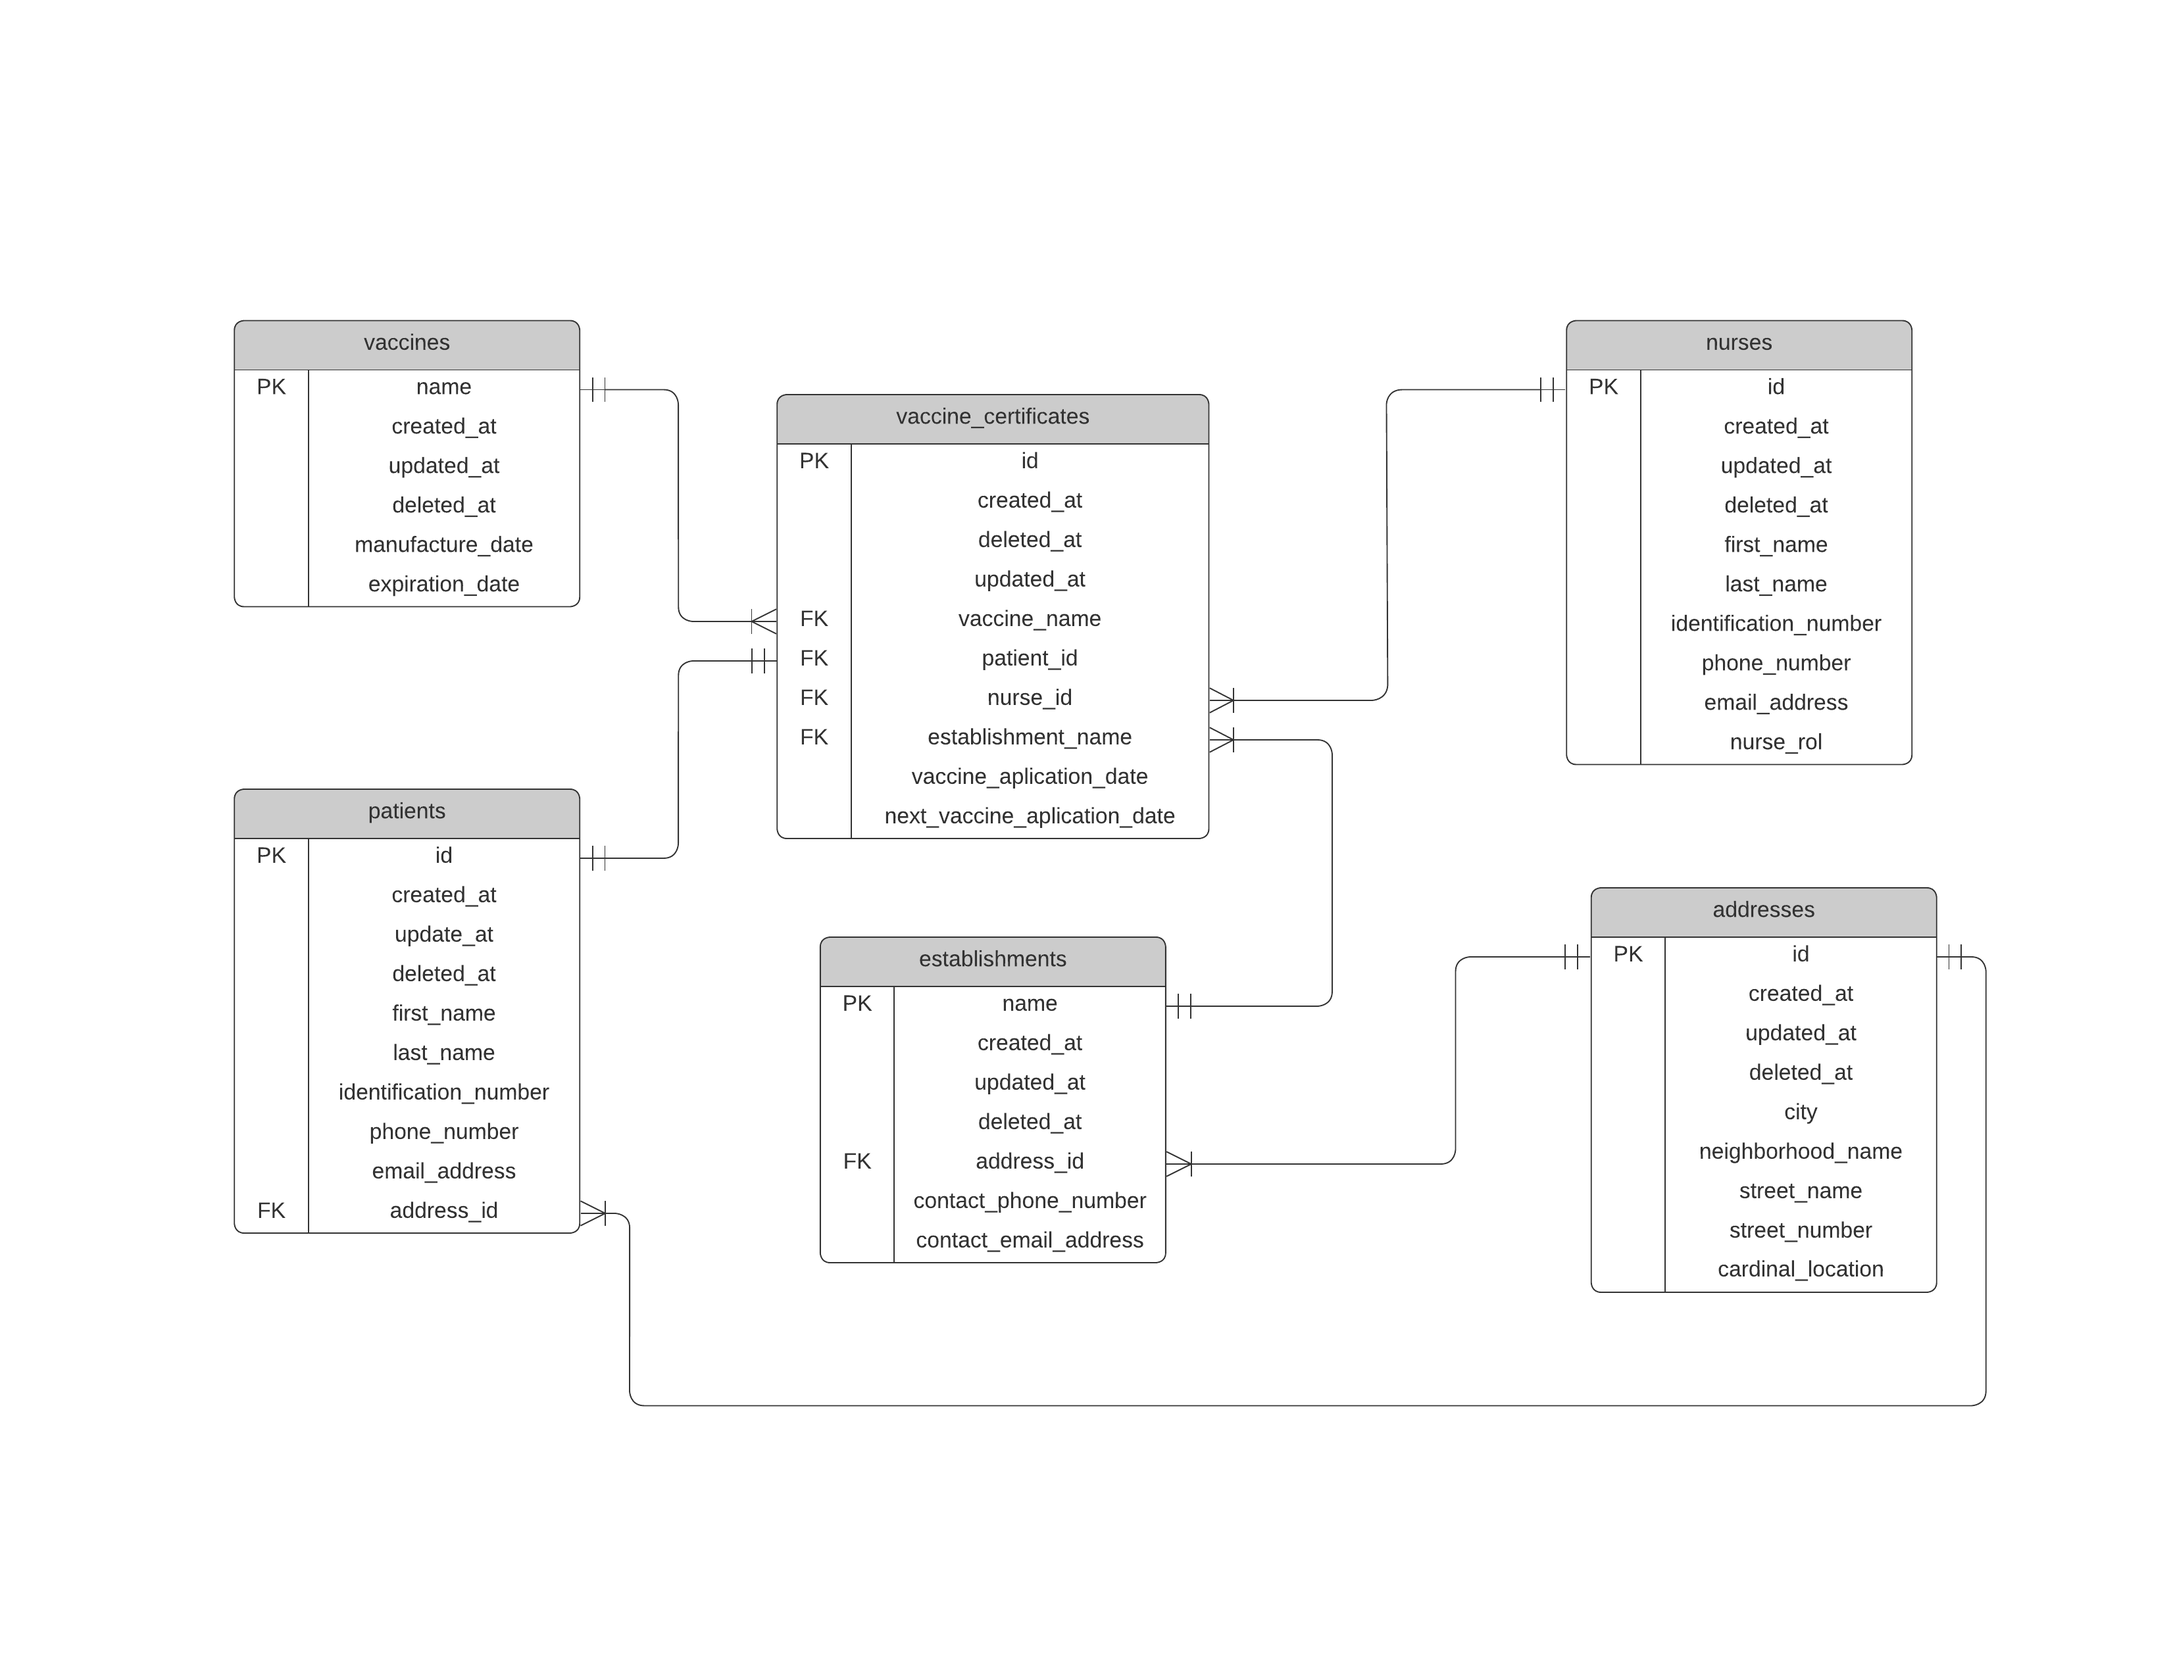
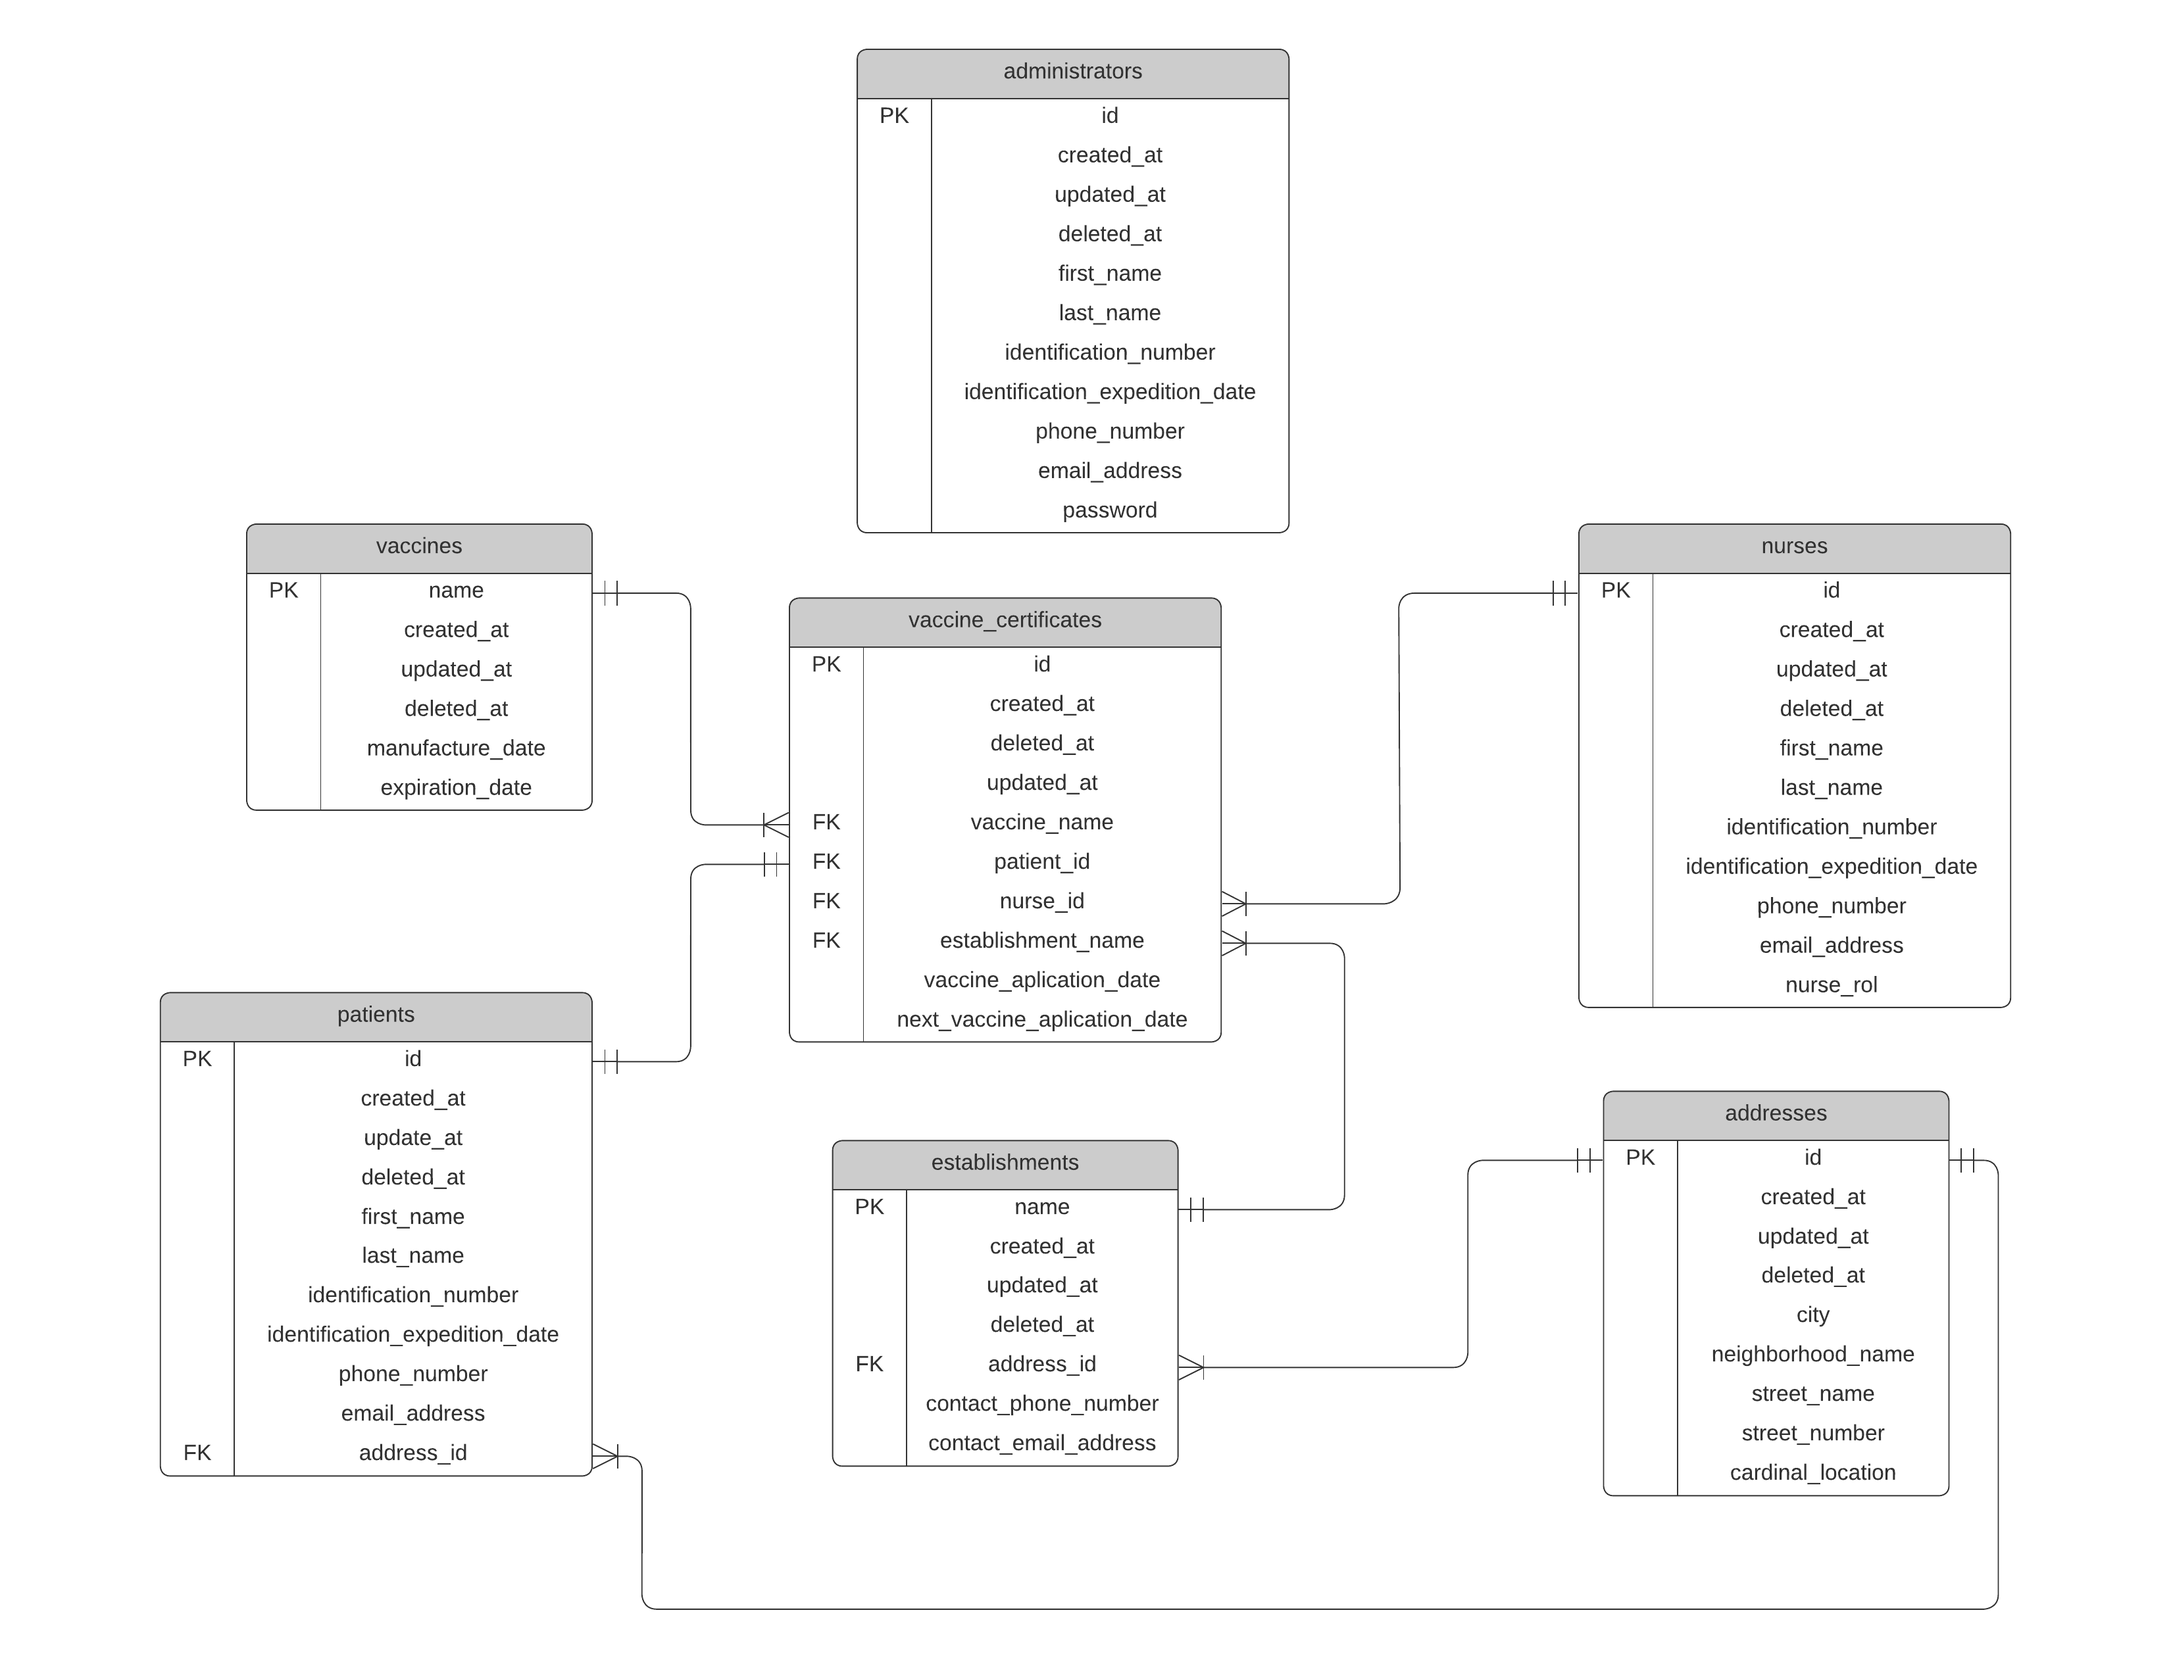
database: associations applied to models

diff --git a/model/address.go b/model/address.go
@@ -4,9 +4,11 @@ import "gorm.io/gorm"
 
 type Address struct {
 	gorm.Model
-	City             string `json:"city"`
-	NeighborhoodName string `json:"neighborhood_name"`
-	StreetName       string `json:"street_name"`
-	StreetNumber     uint32 `json:"street_number"`
-	CardinalLocation string `json:"cardinal_location"`
+	City             string          `json:"city"`
+	NeighborhoodName string          `json:"neighborhood_name"`
+	StreetName       string          `json:"street_name"`
+	StreetNumber     uint32          `json:"street_number"`
+	CardinalLocation string          `json:"cardinal_location"`
+	Patients         []Patient       `gorm:"constraint:OnUpdate:CASCADE,OnDelete:SET NULL;" json:"patients"`
+	Establishments   []Establishment `gorm:"constraint:OnUpdate:CASCADE,OnDelete:SET NULL;" json:"establishments"`
 }

diff --git a/model/vaccine_certificate.go b/model/vaccine_certificate.go
@@ -8,9 +8,10 @@ import (
 
 type VaccineCertificate struct {
 	gorm.Model
-	VaccineName               Vaccine       `json:"vaccine_name"`
-	NurseId                   Nurse         `json:"nurse_id"`
-	EstablishmentName         Establishment `json:"establishment_name"`
-	VaccineAplicationDate     time.Time     `json:"vaccine_aplication_date"`
-	NextVaccineAplicationDate time.Time     `json:"next_vaccine_aplication_date"`
+	VaccineID                 uint      `json:"vaccine_id"`
+	PatientID                 uint      `json:"patient_id"`
+	NurseID                   uint      `json:"nurse_id"`
+	EstablishmentName         string    `json:"establishment_name"`
+	VaccineAplicationDate     time.Time `json:"vaccine_aplication_date"`
+	NextVaccineAplicationDate time.Time `json:"next_vaccine_aplication_date"`
 }

diff --git a/model/person.go b/model/person.go
@@ -1,14 +1,17 @@
 package model
 
 import (
+	"time"
+
 	"gorm.io/gorm"
 )
 
 type Person struct {
 	gorm.Model
-	FirstName      string `json:"first_name"`
-	LastName       string `json:"last_name"`
-	Identification uint32 `json:"identification"`
-	PhoneNumber    uint32 `json:"phone_number"`
-	EmailAddress   string `json:"email_address"`
+	FirstName                    string    `json:"first_name"`
+	LastName                     string    `json:"last_name"`
+	IdentificationNumber         string    `json:"identification"`
+	IdentificationExpeditionDate time.Time `json:"identification_expedition_date"`
+	PhoneNumber                  string    `json:"phone_number"`
+	EmailAddress                 string    `json:"email_address"`
 }

diff --git a/model/establishment.go b/model/establishment.go
@@ -1,9 +1,10 @@
 package model
 
 type Establishment struct {
-	Name                string `gorm:"primarykey" json:"name"`
+	Name                string               `gorm:"primarykey" json:"name"`
 	Operation
-	Adress              Address `gorm:"embedded;column:establishment_adress" json:"establishment_adress"`
-	ContactNumber       uint16  `json:"contact_number"`
-	ContactEmailAddress string  `json:"contact_email_address"`
+	AddressID           uint                 `json:"address_id"`
+	ContactNumber       string               `json:"contact_number"`
+	ContactEmailAddress string               `json:"contact_email_address"`
+	VaccineCertificates []VaccineCertificate `json:"vaccine_certificates"`
 }

diff --git a/model/vaccine.go b/model/vaccine.go
@@ -3,8 +3,9 @@ package model
 import "time"
 
 type Vaccine struct {
-	Name            string `gorm:"primaryKey" json:"name"`
+	Name               string                `gorm:"primaryKey" json:"name"`
 	Operation
-	ManufactureDate time.Time `json:"manufacture_date"`
-	ExpirationDate  time.Time `json:"expiration_date"`
+	ManufactureDate    time.Time             `json:"manufacture_date"`
+	ExpirationDate     time.Time             `json:"expiration_date"`
+	VaccineCertificates []VaccineCertificate `json:"vaccine_certificates"`
 }

diff --git a/model/patient.go b/model/patient.go
@@ -2,12 +2,6 @@ package model
 
 type Patient struct {
 	Person
-	VaccineCertificateID uint
-	VaccineCertificate   VaccineCertificate `gorm:"constraint:OnUpdate:CASCADE,OnDelete:SET NULL;"`
-	ResidenceAddress     Address            `json:"residence_address"`
+	AddressID           uint                 `json:"address_id"`
+	VaccineCertificates []VaccineCertificate `json:"vaccine_certificates"`
 }
-
-// one-to-one -> each instance of this model 'belongs to' each instance of
-// vaccine_certificate model
-
-// one-to-many -> each

diff --git a/database/connection.go b/database/connection.go
@@ -1,13 +1,12 @@
 package database
 
 import (
-	"gorm.io/gorm"
 	"gorm.io/driver/mysql"
+	"gorm.io/gorm"
 )
 
 func ConnectDatabase() *gorm.DB {
-	const dsn = `root:@BrysDB130502.@tcp(127.0.0.1:3306)/covid19_vaccine_
-register_db?charset=utf8mb4&parseTime=True&loc=Local`
+	const dsn = "root:@BrysDB130502.@tcp(127.0.0.1:3306)/covid19_vaccine_register?charset=utf8mb4&parseTime=True&loc=Local"
 
 	// read the documentation to see the advanced db's connection configuration
 	db, err := gorm.Open(mysql.Open(dsn), &gorm.Config{})

diff --git a/database/migration.go b/database/migration.go
@@ -7,6 +7,7 @@ import (
 
 func MigrateSchema(db *gorm.DB) {
 	db.AutoMigrate(
+		&model.Administrator{},
 		&model.Patient{},
 		&model.Nurse{},
 		&model.Establishment{},
@@ -14,4 +15,4 @@ func MigrateSchema(db *gorm.DB) {
 		&model.Vaccine{},
 		&model.VaccineCertificate{},
 	)
-} // read the doc to see if the are other ways to migrate the schema
+}

diff --git a/main.go b/main.go
@@ -1,6 +1,8 @@
 package main
 
+import "github.com/Covid19_Vaccination_Register/database"
+
 func main() {
-	// the only place where the parts of the program meets each other is here
-	// so be careful with the coupuling
+	db := database.ConnectDatabase()
+	database.MigrateSchema(db)
 }

diff --git a/model/nurse.go b/model/nurse.go
@@ -2,5 +2,6 @@ package model
 
 type Nurse struct {
 	Person
-	NurseRol string `json:"nurse_rol"`
+	NurseRol           string               `json:"nurse_rol"`
+	VaccineCertificate []VaccineCertificate `json:"vaccine_certificates"`
 }

diff --git a/model/administrator.go b/model/administrator.go
@@ -1,0 +1,6 @@
+package model
+
+type Administrator struct {
+	Person
+	Password string `json:"password"`
+}
